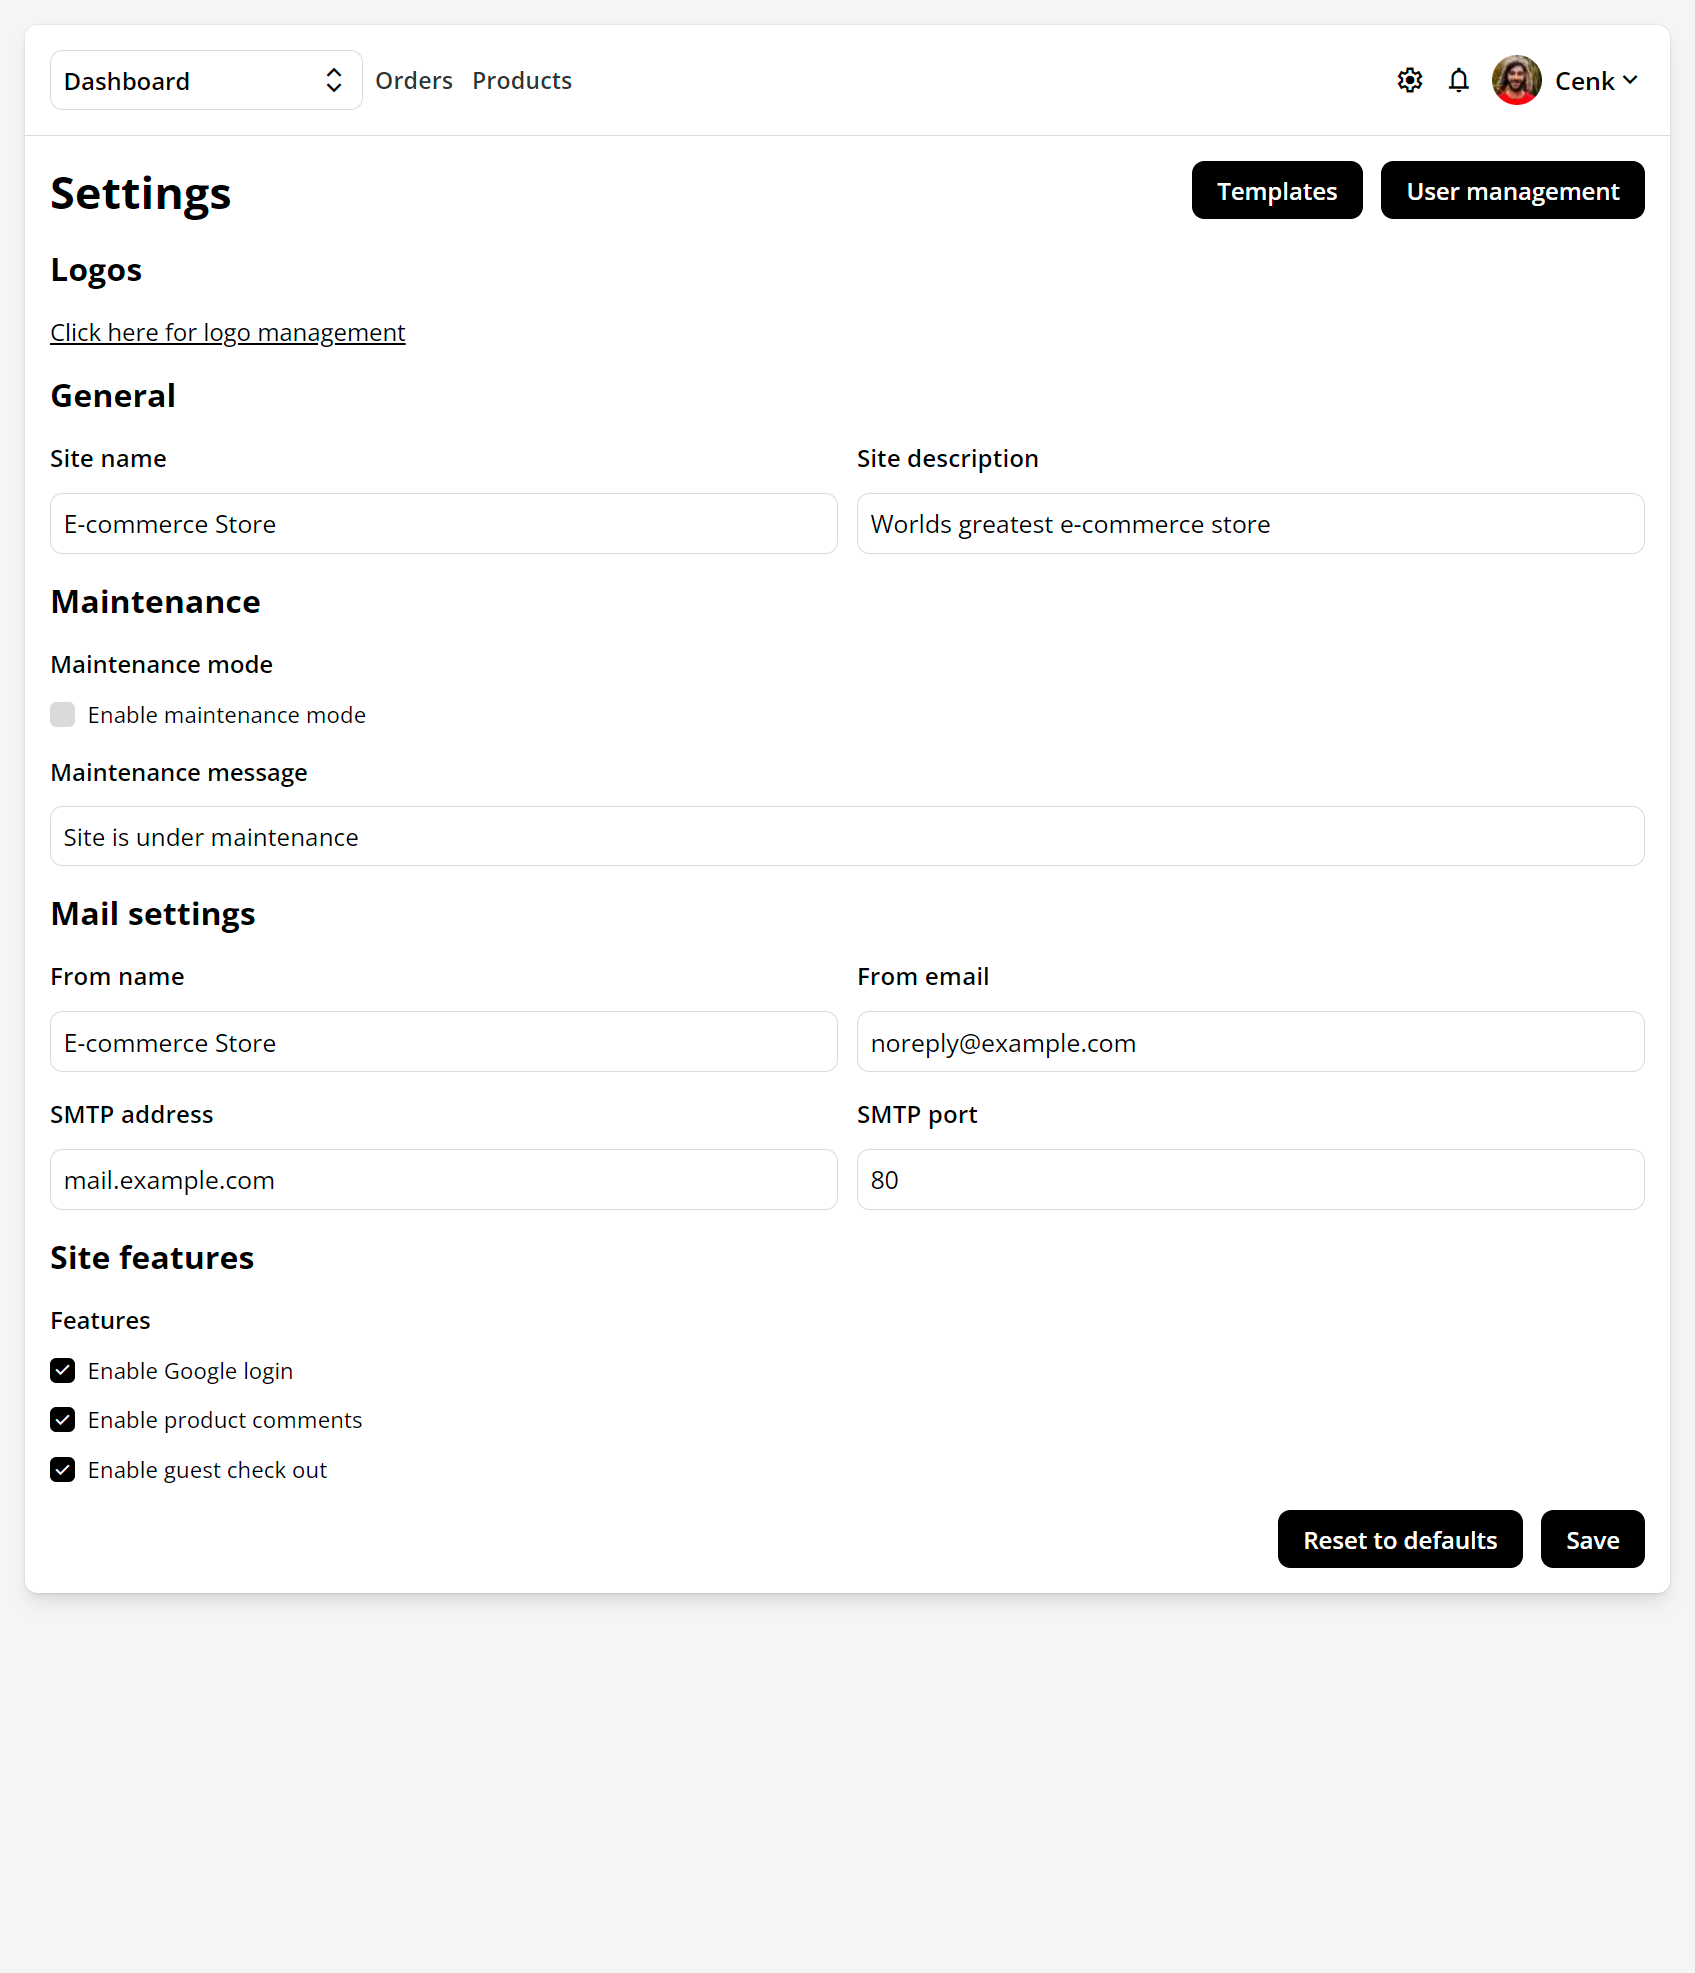
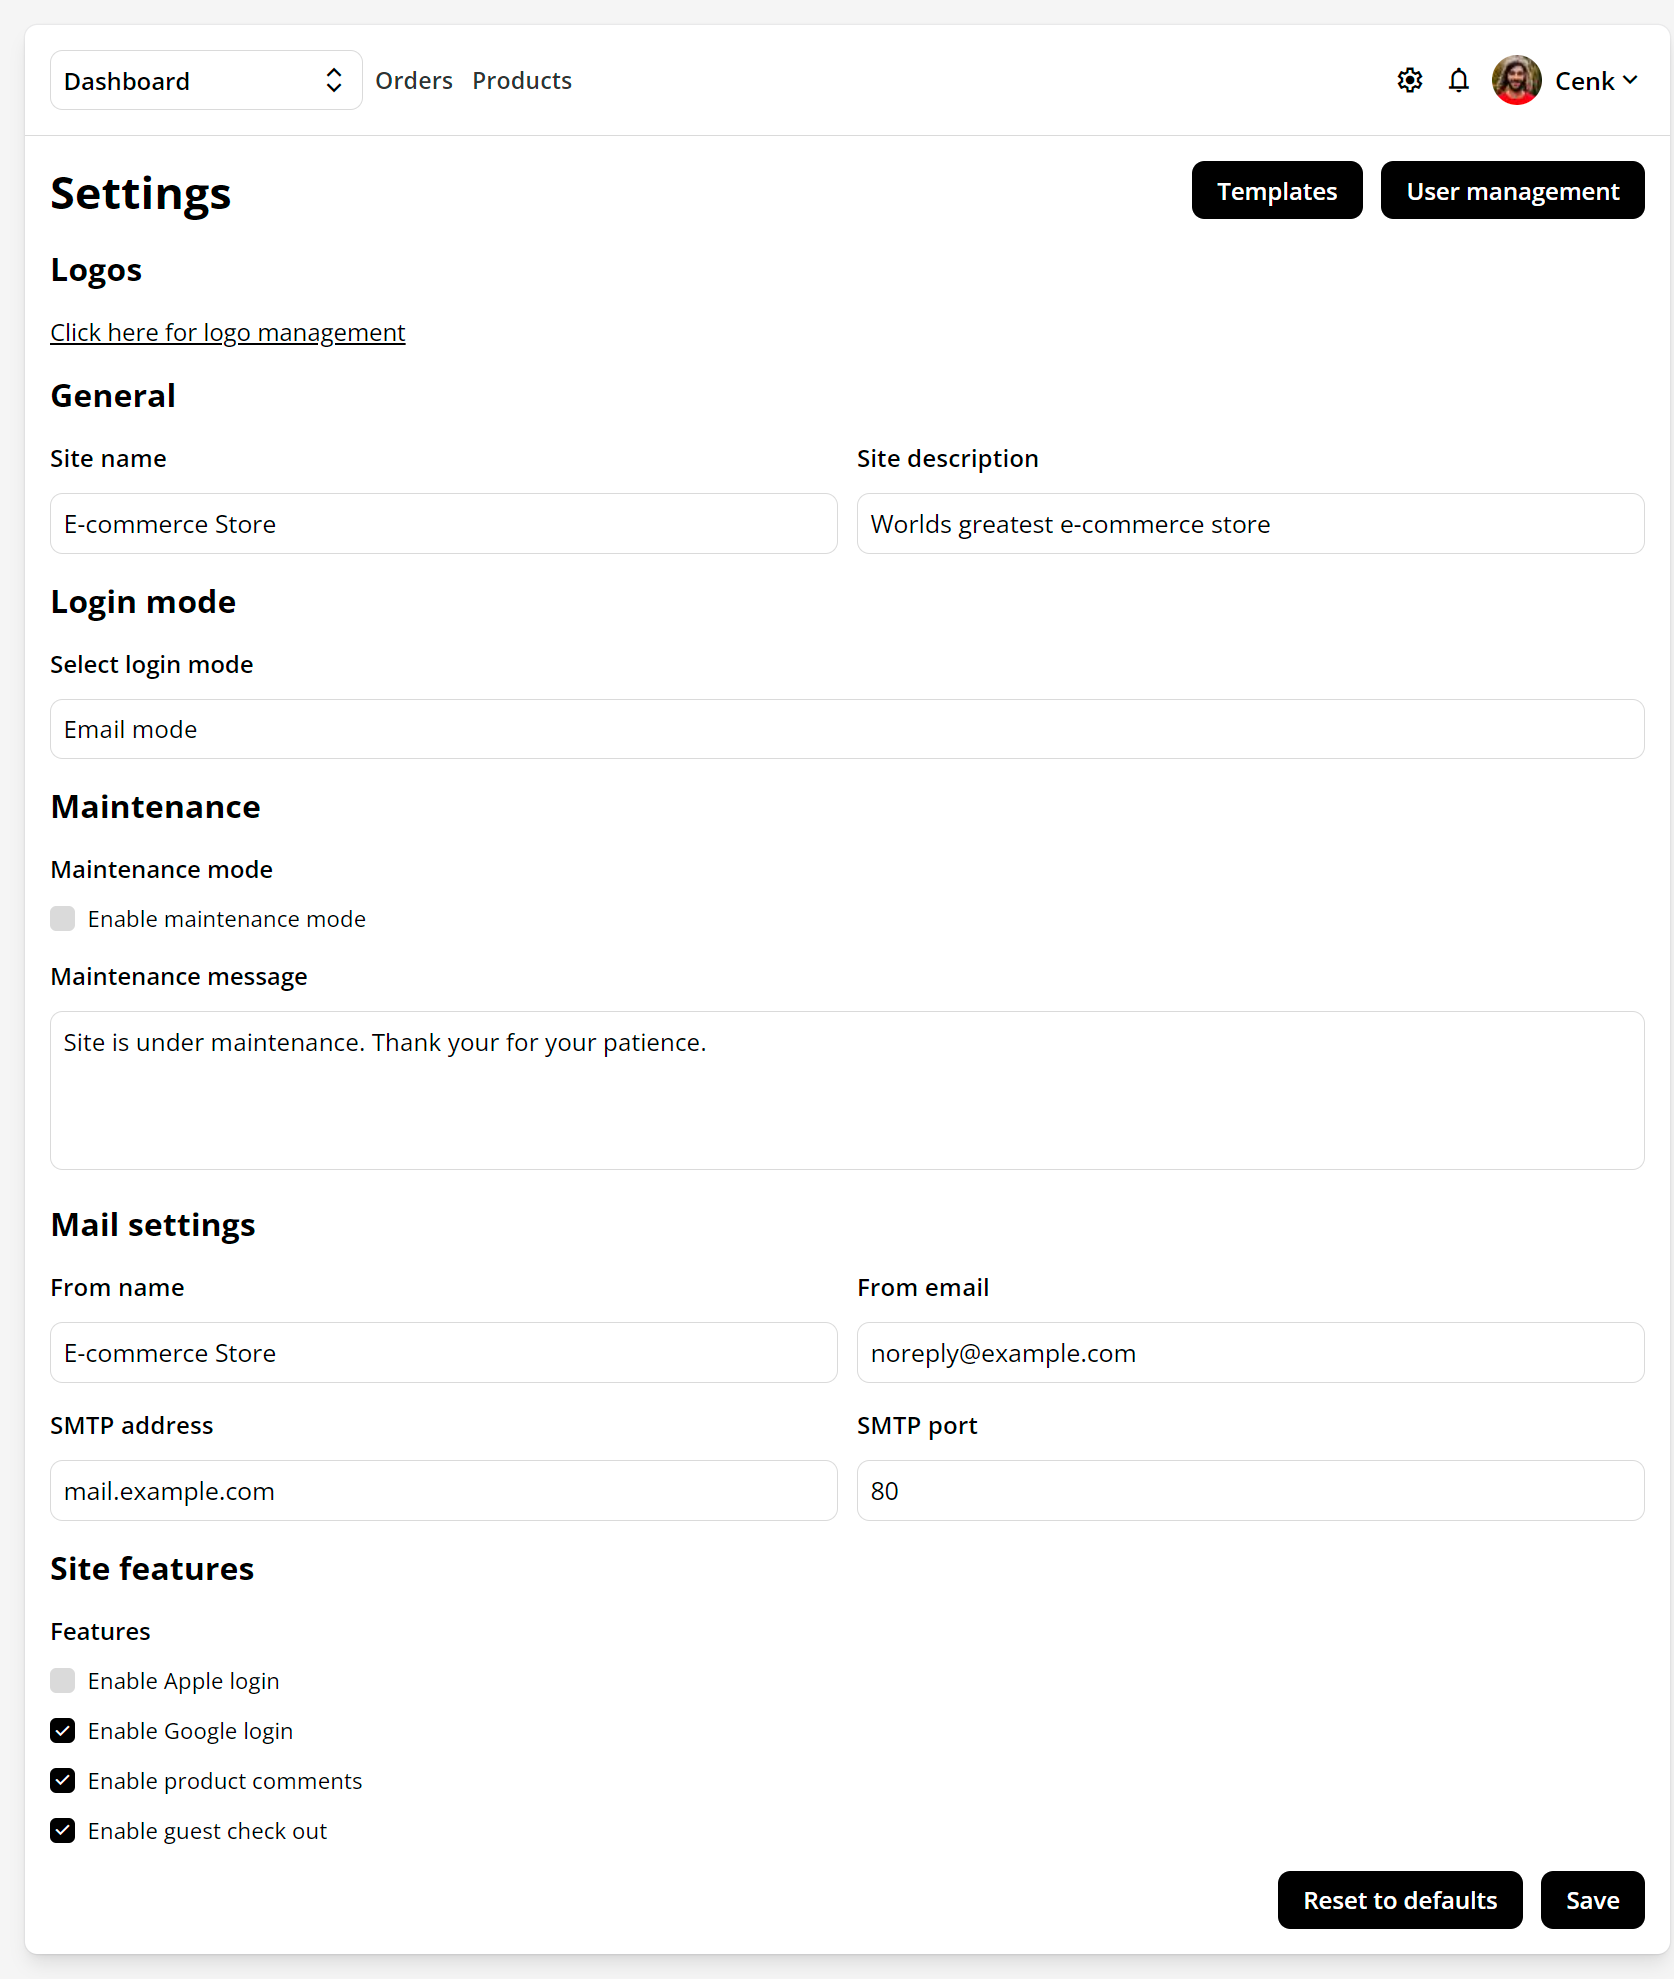
forms

diff --git a/src/pages/Settings/Settings.tsx b/src/pages/Settings/Settings.tsx
@@ -5,9 +5,10 @@ import { Link } from 'react-router-dom';
 import Input from '../../components/Forms/Input';
 import Button from '../../components/Forms/Button';
 import Master from '../../components/Layout/Master';
+import Textarea from '../../components/Forms/Textarea';
 import Checkbox from '../../components/Forms/Checkbox';
-import Container from '../../components/Containers/Container';
 import Heading from '../../components/Headings/Heading';
+import Container from '../../components/Containers/Container';
 
 interface IFormValues {
   name: '',
@@ -20,6 +21,7 @@ interface IFormValues {
   fromMail: string;
   fromName: string;
   comments: boolean,
+  appleLogin: boolean;
   googleLogin: boolean,
   guestCheckout: boolean;
 }
@@ -28,7 +30,7 @@ const Settings = (): React.JSX.Element => {
   const [values, setValues] = React.useState<IFormValues>({
     name: '',
     maintenance: false,
-    maintenanceMessage: 'Site is under maintenance',
+    maintenanceMessage: 'Site is under maintenance. Thank your for your patience.',
     siteName: 'E-commerce Store',
     siteDesc: 'Worlds greatest e-commerce store',
     smtpPort: '80',
@@ -36,11 +38,12 @@ const Settings = (): React.JSX.Element => {
     fromMail: 'noreply@example.com',
     fromName: 'E-commerce Store',
     comments: true,
+    appleLogin: false,
     googleLogin: true,
     guestCheckout: true,
   });
 
-  const handleTextChange = (e: React.ChangeEvent<HTMLInputElement>): void => {
+  const handleTextChange = (e: React.ChangeEvent<HTMLInputElement> | React.ChangeEvent<HTMLTextAreaElement>): void => {
     const { name, value } = e.target;
 
     setValues({
@@ -67,12 +70,11 @@ const Settings = (): React.JSX.Element => {
             <Button type='button' text='User management' />
           </div>
         </Heading>
-
         <form noValidate>
           <div className='form-elements'>
             <h4>Logos</h4>
             <div className='form-line'>
-              <Link to=''>Click here for logo management</Link>
+              <Link to='/'>Click here for logo management</Link>
             </div>
             <h4>General</h4>
             <div className='form-line flex flex-gap'>
@@ -111,6 +113,18 @@ const Settings = (): React.JSX.Element => {
                 </div>
               </div>
             </div>
+            <h4>Login mode</h4>
+            <div className='form-line'>
+              <div className='label-line'>
+                <label htmlFor='loginMode'>Select login mode</label>
+              </div>
+              <div className='input-line'>
+                <select name='loginMode' id='loginMode' className='select pointer'>
+                  <option value='email'>Email mode</option>
+                  <option value='phone'>Phone mode</option>
+                </select>
+              </div>
+            </div>
             <h4>Maintenance</h4>
             <div className='form-line'>
               <div className='label-line'>
@@ -130,16 +144,16 @@ const Settings = (): React.JSX.Element => {
                 <label htmlFor='maintenanceMessage'>Maintenance message</label>
               </div>
               <div className='input-line'>
-                <Input
-                    required
-                    name='maintenanceMessage'
-                    type='text'
-                    value={values.maintenanceMessage}
-                    tabIndex={0}
-                    maxLength={128}
-                    onChange={handleTextChange}
-                    placeholder='Please enter maintenanceMessage'
-                  />
+                <Textarea
+                  rows={4}
+                  required
+                  name='maintenanceMessage'
+                  value={values.maintenanceMessage}
+                  tabIndex={0}
+                  maxLength={128}
+                  onChange={handleTextChange}
+                  placeholder='Please enter maintenanceMessage'
+                />
               </div>
             </div>
 
@@ -220,6 +234,14 @@ const Settings = (): React.JSX.Element => {
             <div className='form-line'>
               <div className='label-line'>
                 <label>Features</label>
+              </div>
+              <div className='checkbox-line'>
+                <Checkbox
+                  name='appleLogin'
+                  checked={values.appleLogin}
+                  placeholder='Enable Apple login'
+                  onChange={handleRadioChange}
+                />
               </div>
               <div className='checkbox-line'>
                 <Checkbox

diff --git a/public/site.css b/public/site.css
@@ -101,6 +101,7 @@ input,
 textarea,
 select,
 button {
+  resize: none;
   transition: all 0.3s ease;
   background-color: transparent;
 }
@@ -237,7 +238,7 @@ strong {
   background-color: #222222;
 }
 
-.input {
+.input, .select {
   padding: 10px;
   border-radius: 10px;
   background-color: #ffffff;
@@ -249,7 +250,7 @@ strong {
   --webkit-user-select: none;
 }
 
-.input:focus {
+.input:focus, .select:focus {
   background-color: #f9f9f9;
   border: 1px solid #999999;
 }
@@ -405,7 +406,9 @@ header {
   --webkit-user-select: none;
 }
 
-.form-line .input-line input {
+.form-line .input-line input,
+.form-line .input-line select,
+.form-line .input-line textarea {
   width: 100%;
 }
 

diff --git a/src/components/Forms/Textarea.tsx b/src/components/Forms/Textarea.tsx
@@ -1,0 +1,18 @@
+import React from 'react';
+
+interface IProps {
+  rows: number;
+  name: string;
+  value: string;
+  tabIndex: number;
+  required: boolean;
+  maxLength: number;
+  placeholder: string;
+  onChange?: (e: React.ChangeEvent<HTMLTextAreaElement>) => void;
+}
+
+const Input = ({ rows, name, value, tabIndex, required, maxLength, placeholder, onChange = () => {} }: IProps): React.JSX.Element => (
+  <textarea rows={rows} name={name} id={name} className='input' placeholder={placeholder} required={required} maxLength={maxLength} tabIndex={tabIndex} value={value} autoComplete='off' onChange={onChange} />
+);
+
+export default Input;
